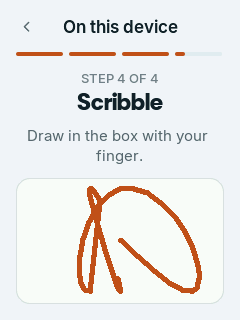
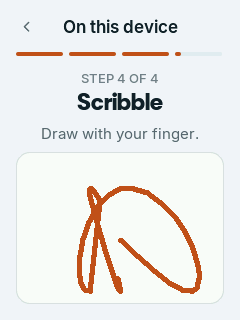
On this device: one layout for all four steps
Step number, title and a one-line subline, then one picture area: the chip,
the camera's view as a rounded card, the device, the scribble box.

Changed region(s): [[0.1167, 0.375, 0.875, 0.5312], [0.9042, 0.5625, 0.9333, 0.5938], [0.7583, 0.1562, 0.7875, 0.1875]]

diff --git a/firmware/src/app/ui.cpp b/firmware/src/app/ui.cpp
@@ -1298,8 +1298,12 @@ static lv_obj_t *dev_bar, *dev_cam, *dev_phone, *dev_ink, *dev_chip, *dev_chip_f
 static int dev_chip_n;                   // chunks read on this screen
 static char dev_chip_txt[24];
 // The Camera step's live view: preview_buf as a smaller picture under the text.
-#define DEV_CAM_W 180
-#define DEV_CAM_H 135
+// Every step: its number, title and a one-line subline, then one picture
+// area below (the chip, the camera's view, the device, the scribble box).
+#define DEV_VIS_Y (BAR + 104)
+#define DEV_VIS_H (H - DEV_VIS_Y - M)
+#define DEV_CAM_W 200
+#define DEV_CAM_H 150
 static lv_image_dsc_t dev_cam_dsc;
 static int16_t dev_motion_last[3];
 static DeviceSource dev_shown;           // the stage the screen was built for
@@ -1309,9 +1313,9 @@ static uint32_t dev_stage_ms;
 #define DEV_STEP_MS 5000
 // The scribble's ink: borrows preview_buf (idle once the camera step is over)
 // as an A8 picture over the box, drawn in the accent colour.
-#define DEV_BOX_Y (BAR + 130)
+#define DEV_BOX_Y DEV_VIS_Y
 #define DEV_INK_W CW
-#define DEV_INK_H (H - DEV_BOX_Y - M)
+#define DEV_INK_H DEV_VIS_H
 static_assert(DEV_INK_W * DEV_INK_H <= sizeof(preview_buf), "the scribble's ink doesn't fit preview_buf");
 static lv_image_dsc_t dev_ink_dsc;
 static int dev_pen_x = -1, dev_pen_y;    // the last point of the stroke, -1: pen up
@@ -1506,19 +1510,17 @@ static void build_entropy_device() {
         }
     }
     static const char *title[DS_COUNT] = {"The chip", "Camera noise", "Shake it", "Scribble"};
-    static const char *say[DS_COUNT] = {
+    static const char *say[DS_COUNT] = {   // one line each
         "The chip rolls its own dice.",
-        "Point the camera at anything with some light.",
-        "Shake the device for a few seconds.",
-        "Draw in the box with your finger.",
+        "Point it at something lit.",
+        "Shake it for a few seconds.",
+        "Draw with your finger.",
     };
     char step[16];
     snprintf(step, sizeof(step), "STEP %d OF %d", s + 1, DS_COUNT);
     lv_obj_align(text(scr, step, &inter_13, TEXT_3), LV_ALIGN_TOP_MID, 0, BAR + 22);
     lv_obj_align(text(scr, title[s], &rethink_24, TEXT), LV_ALIGN_TOP_MID, 0, BAR + 42);
-    lv_obj_t *p = para(scr, say[s]);
-    lv_obj_set_style_text_align(p, LV_TEXT_ALIGN_CENTER, 0);
-    lv_obj_align(p, LV_ALIGN_TOP_MID, 0, BAR + 78);
+    lv_obj_align(text(scr, say[s], &inter_15, TEXT_2), LV_ALIGN_TOP_MID, 0, BAR + 76);
     lv_bar_set_value(dev_bar, 0, LV_ANIM_OFF);
     if (s == DS_TOUCH) {
         lv_obj_t *box = card(scr, DEV_INK_W, DEV_INK_H);
@@ -1555,13 +1557,22 @@ static void build_entropy_device() {
         // The rest of preview_buf, past the view, is the camera step's working memory.
         static_assert(DEV_CAM_W * DEV_CAM_H + DE_CAMERA_LEND <= sizeof(preview_buf), "the camera step's loan doesn't fit");
         device_entropy_lend(preview_buf + DEV_CAM_W * DEV_CAM_H);
-        dev_cam = lv_image_create(scr);
+        // The view as a rounded card, like the scribble box.
+        lv_obj_t *frame = lv_obj_create(scr);
+        lv_obj_remove_style_all(frame);
+        lv_obj_set_size(frame, DEV_CAM_W, DEV_CAM_H);
+        lv_obj_set_style_radius(frame, 14, 0);
+        lv_obj_set_style_clip_corner(frame, true, 0);
+        lv_obj_set_style_bg_color(frame, lv_color_black(), 0);
+        lv_obj_set_style_bg_opa(frame, LV_OPA_COVER, 0);
+        lv_obj_align(frame, LV_ALIGN_TOP_MID, 0, DEV_VIS_Y);
+        dev_cam = lv_image_create(frame);
         lv_image_set_src(dev_cam, &dev_cam_dsc);
-        lv_obj_align(dev_cam, LV_ALIGN_BOTTOM_MID, 0, -M);
+        lv_obj_center(dev_cam);
     } else if (s == DS_CHIP) {
         // A chip with pins on every side and a die in it; it blinks and the die
         // turns as it is read.
-        const int cs = 64, cy = BAR + 178;
+        const int cs = 64, cy = DEV_VIS_Y + 58;
         for (int side = 0; side < 4; side++)
             for (int k = 0; k < 3; k++) {
                 lv_obj_t *pin = lv_obj_create(scr);
@@ -1598,7 +1609,7 @@ static void build_entropy_device() {
         lv_obj_set_style_radius(dev_phone, 10, 0);
         lv_obj_set_style_border_color(dev_phone, ACCENT, 0);
         lv_obj_set_style_border_width(dev_phone, 3, 0);
-        lv_obj_align(dev_phone, LV_ALIGN_BOTTOM_MID, 0, -44);
+        lv_obj_align(dev_phone, LV_ALIGN_TOP_MID, 0, DEV_VIS_Y + (DEV_VIS_H - 92) / 2);
         lv_obj_t *glass = lv_obj_create(dev_phone);
         lv_obj_remove_style_all(glass);
         lv_obj_set_size(glass, 44, 58);
